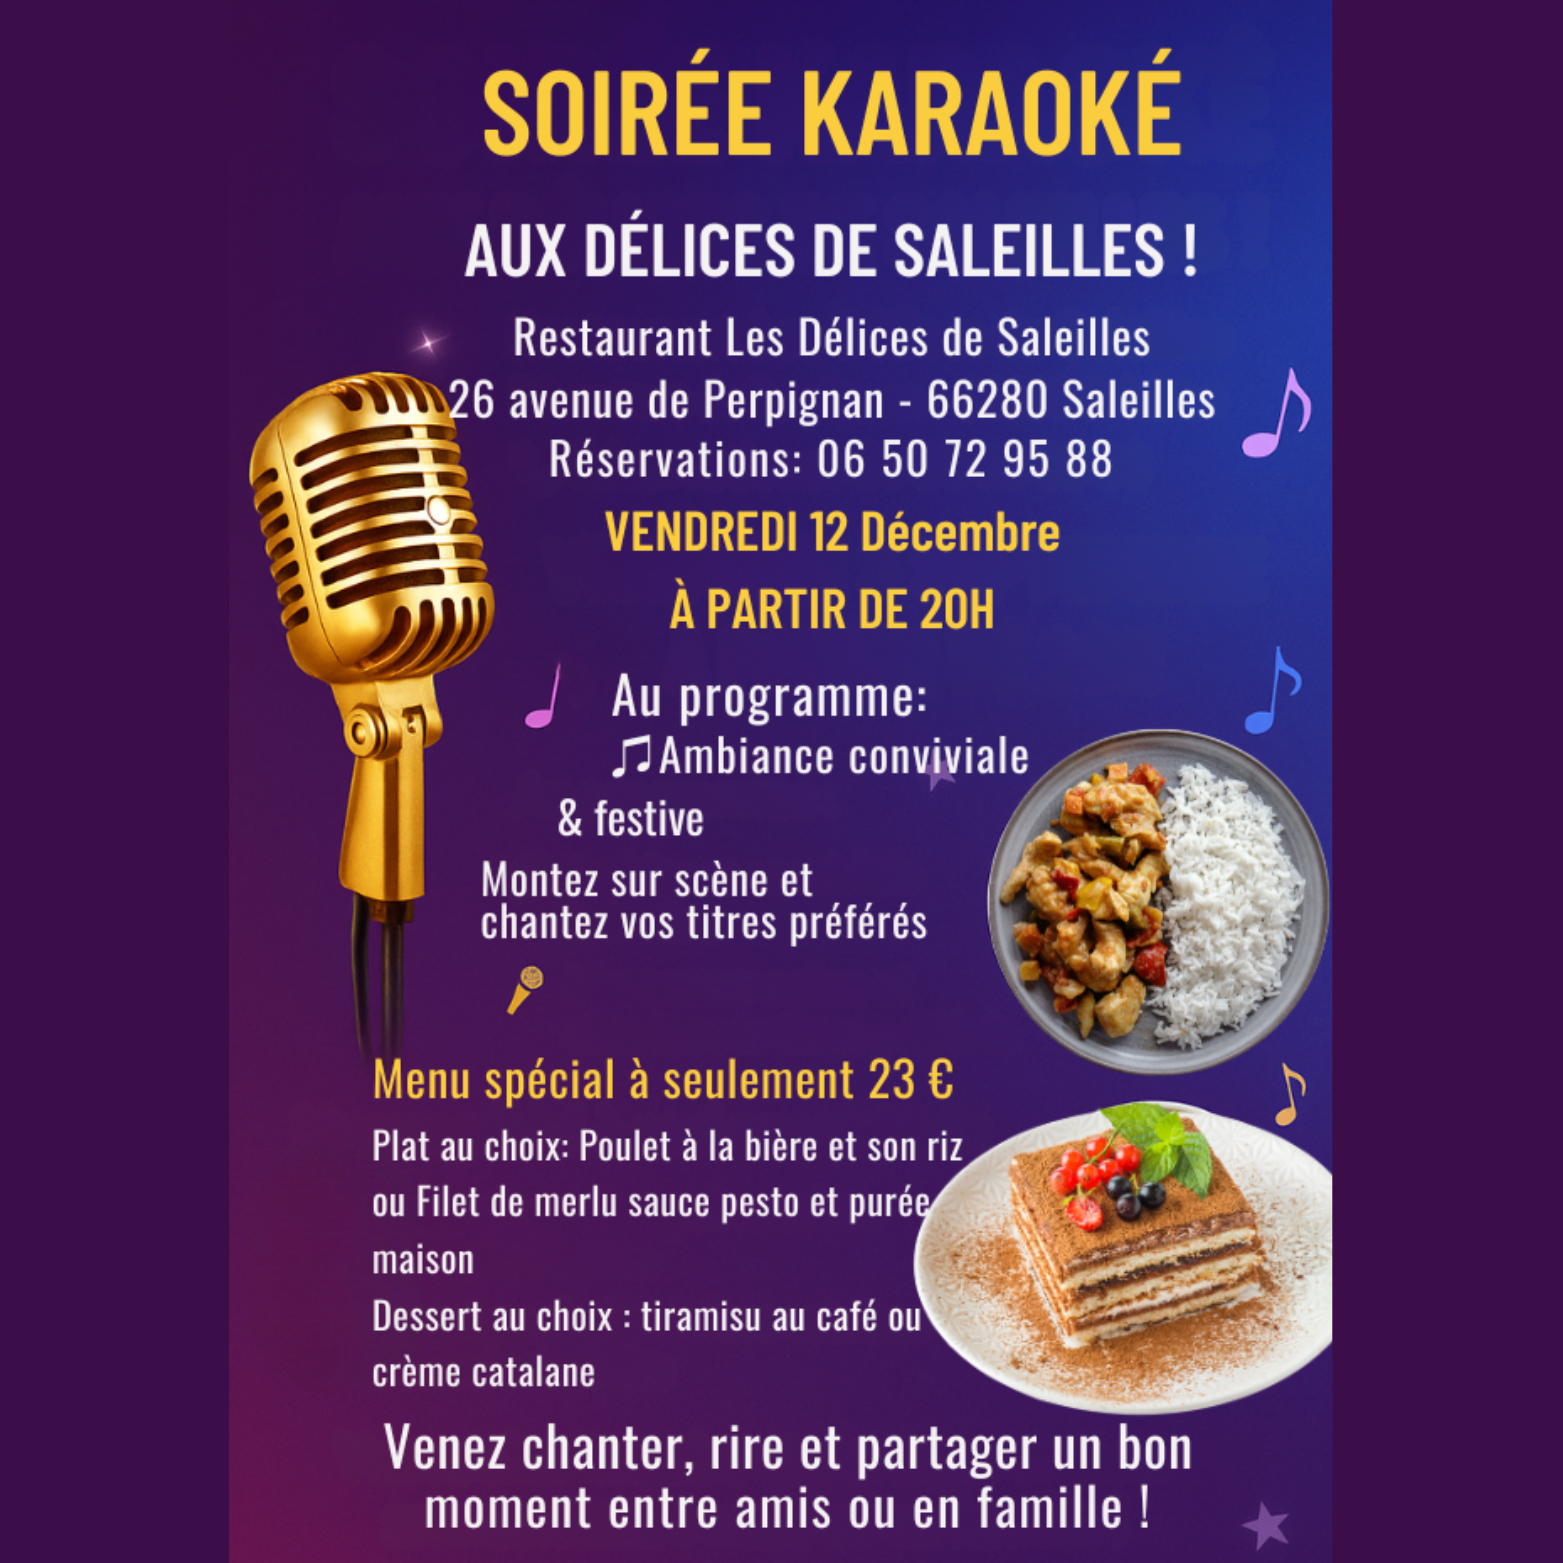
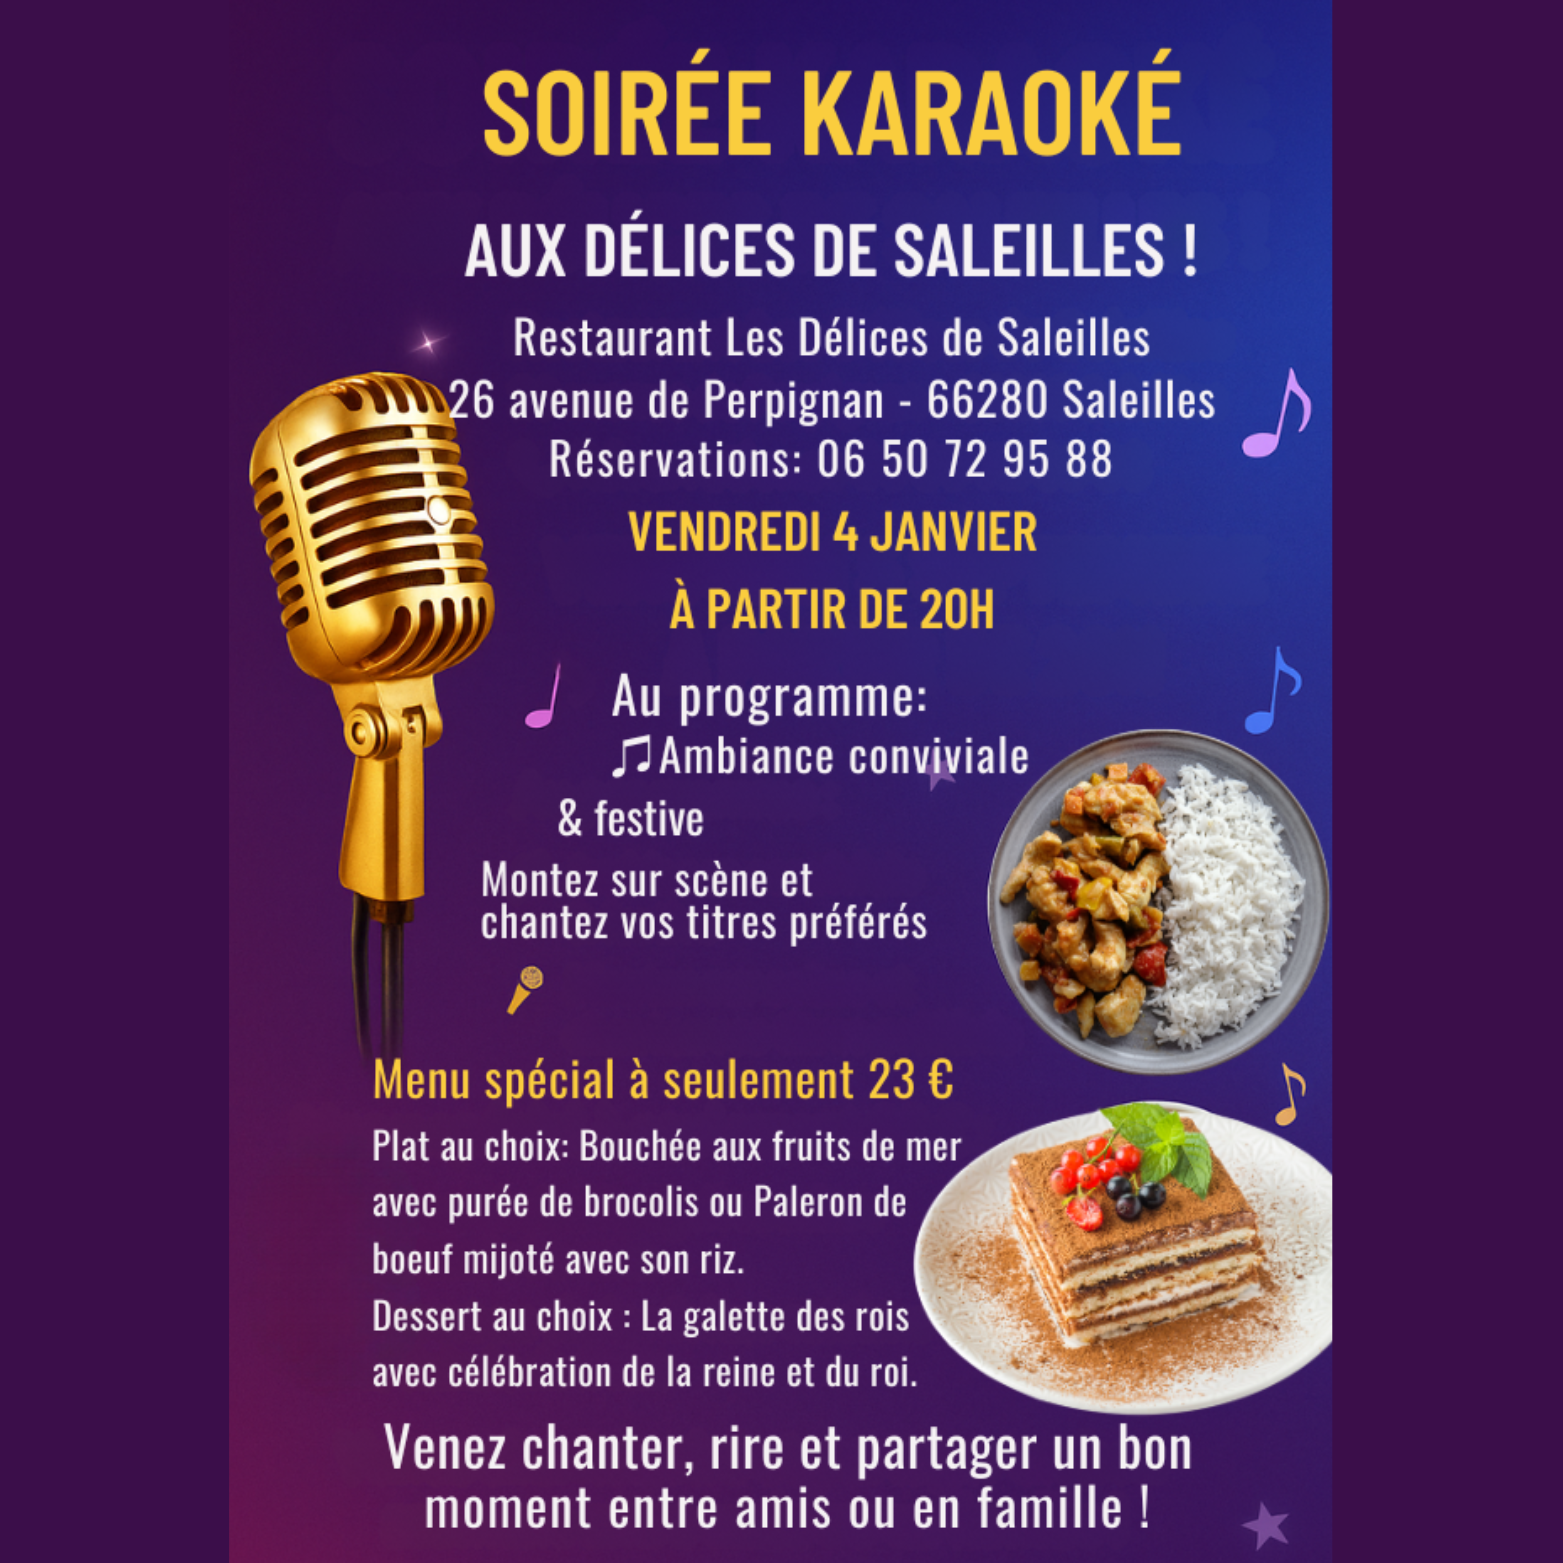
mise en ligne

Changed region(s): [[0.2457, 0.7063, 0.6142, 0.8906], [0.3685, 0.3071, 0.6756, 0.3685]]

diff --git a/components/Karaoke/data.js b/components/Karaoke/data.js
@@ -1,9 +1,9 @@
 const eventMenus = [ 
   
   {
-    date: 'Vendredi 12 décembre à 20h',
+    date: 'Vendredi 4 janvier à 20h',
     plats: [
-      { nom: "Plat au choix: Poulet à la bière et son riz ou Filet de merlu sauce pesto et purée maison. Dessert au choix : Tiramisu au café ou crème catalane.", prix: "23€" },
+      { nom: "Plat au choix: Bouchée aux fruits de mer avec purée de brocolis ou Paleron de boeuf mijoté avec son riz. Dessert au choix : Galette des rois avec célébration de la reine et du roi.", prix: "23€" },
       
     ]
   },
